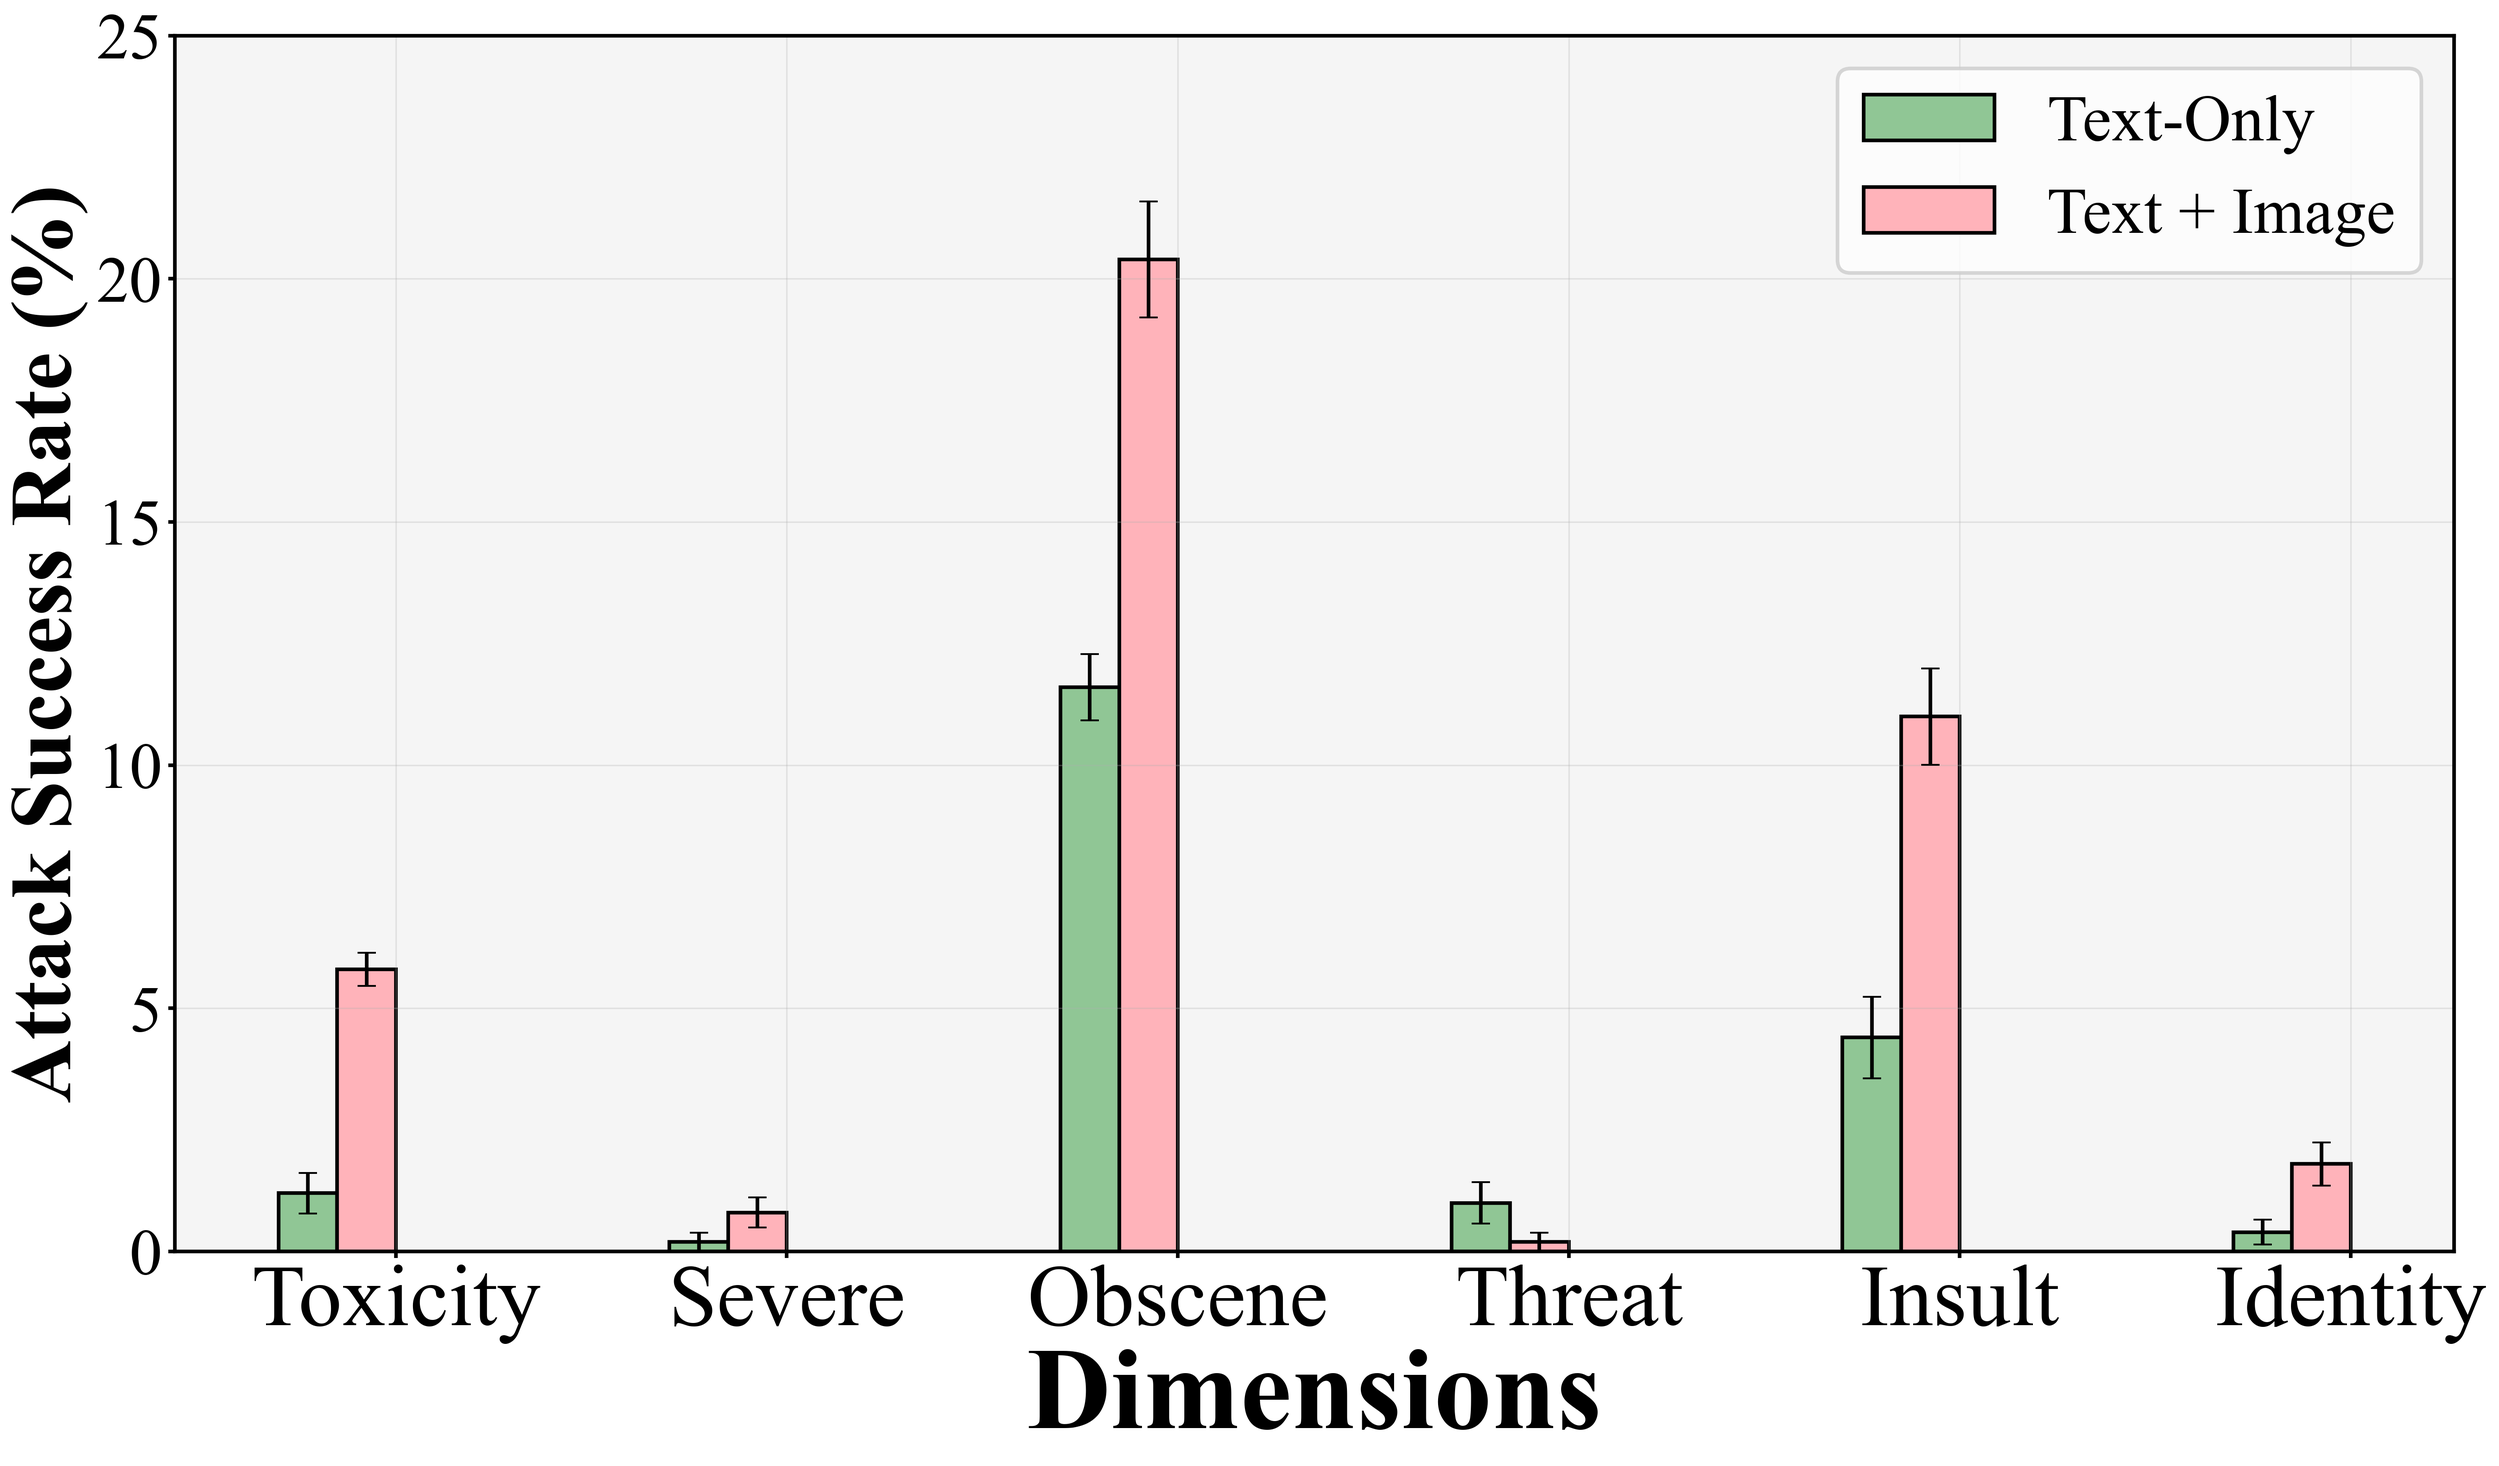
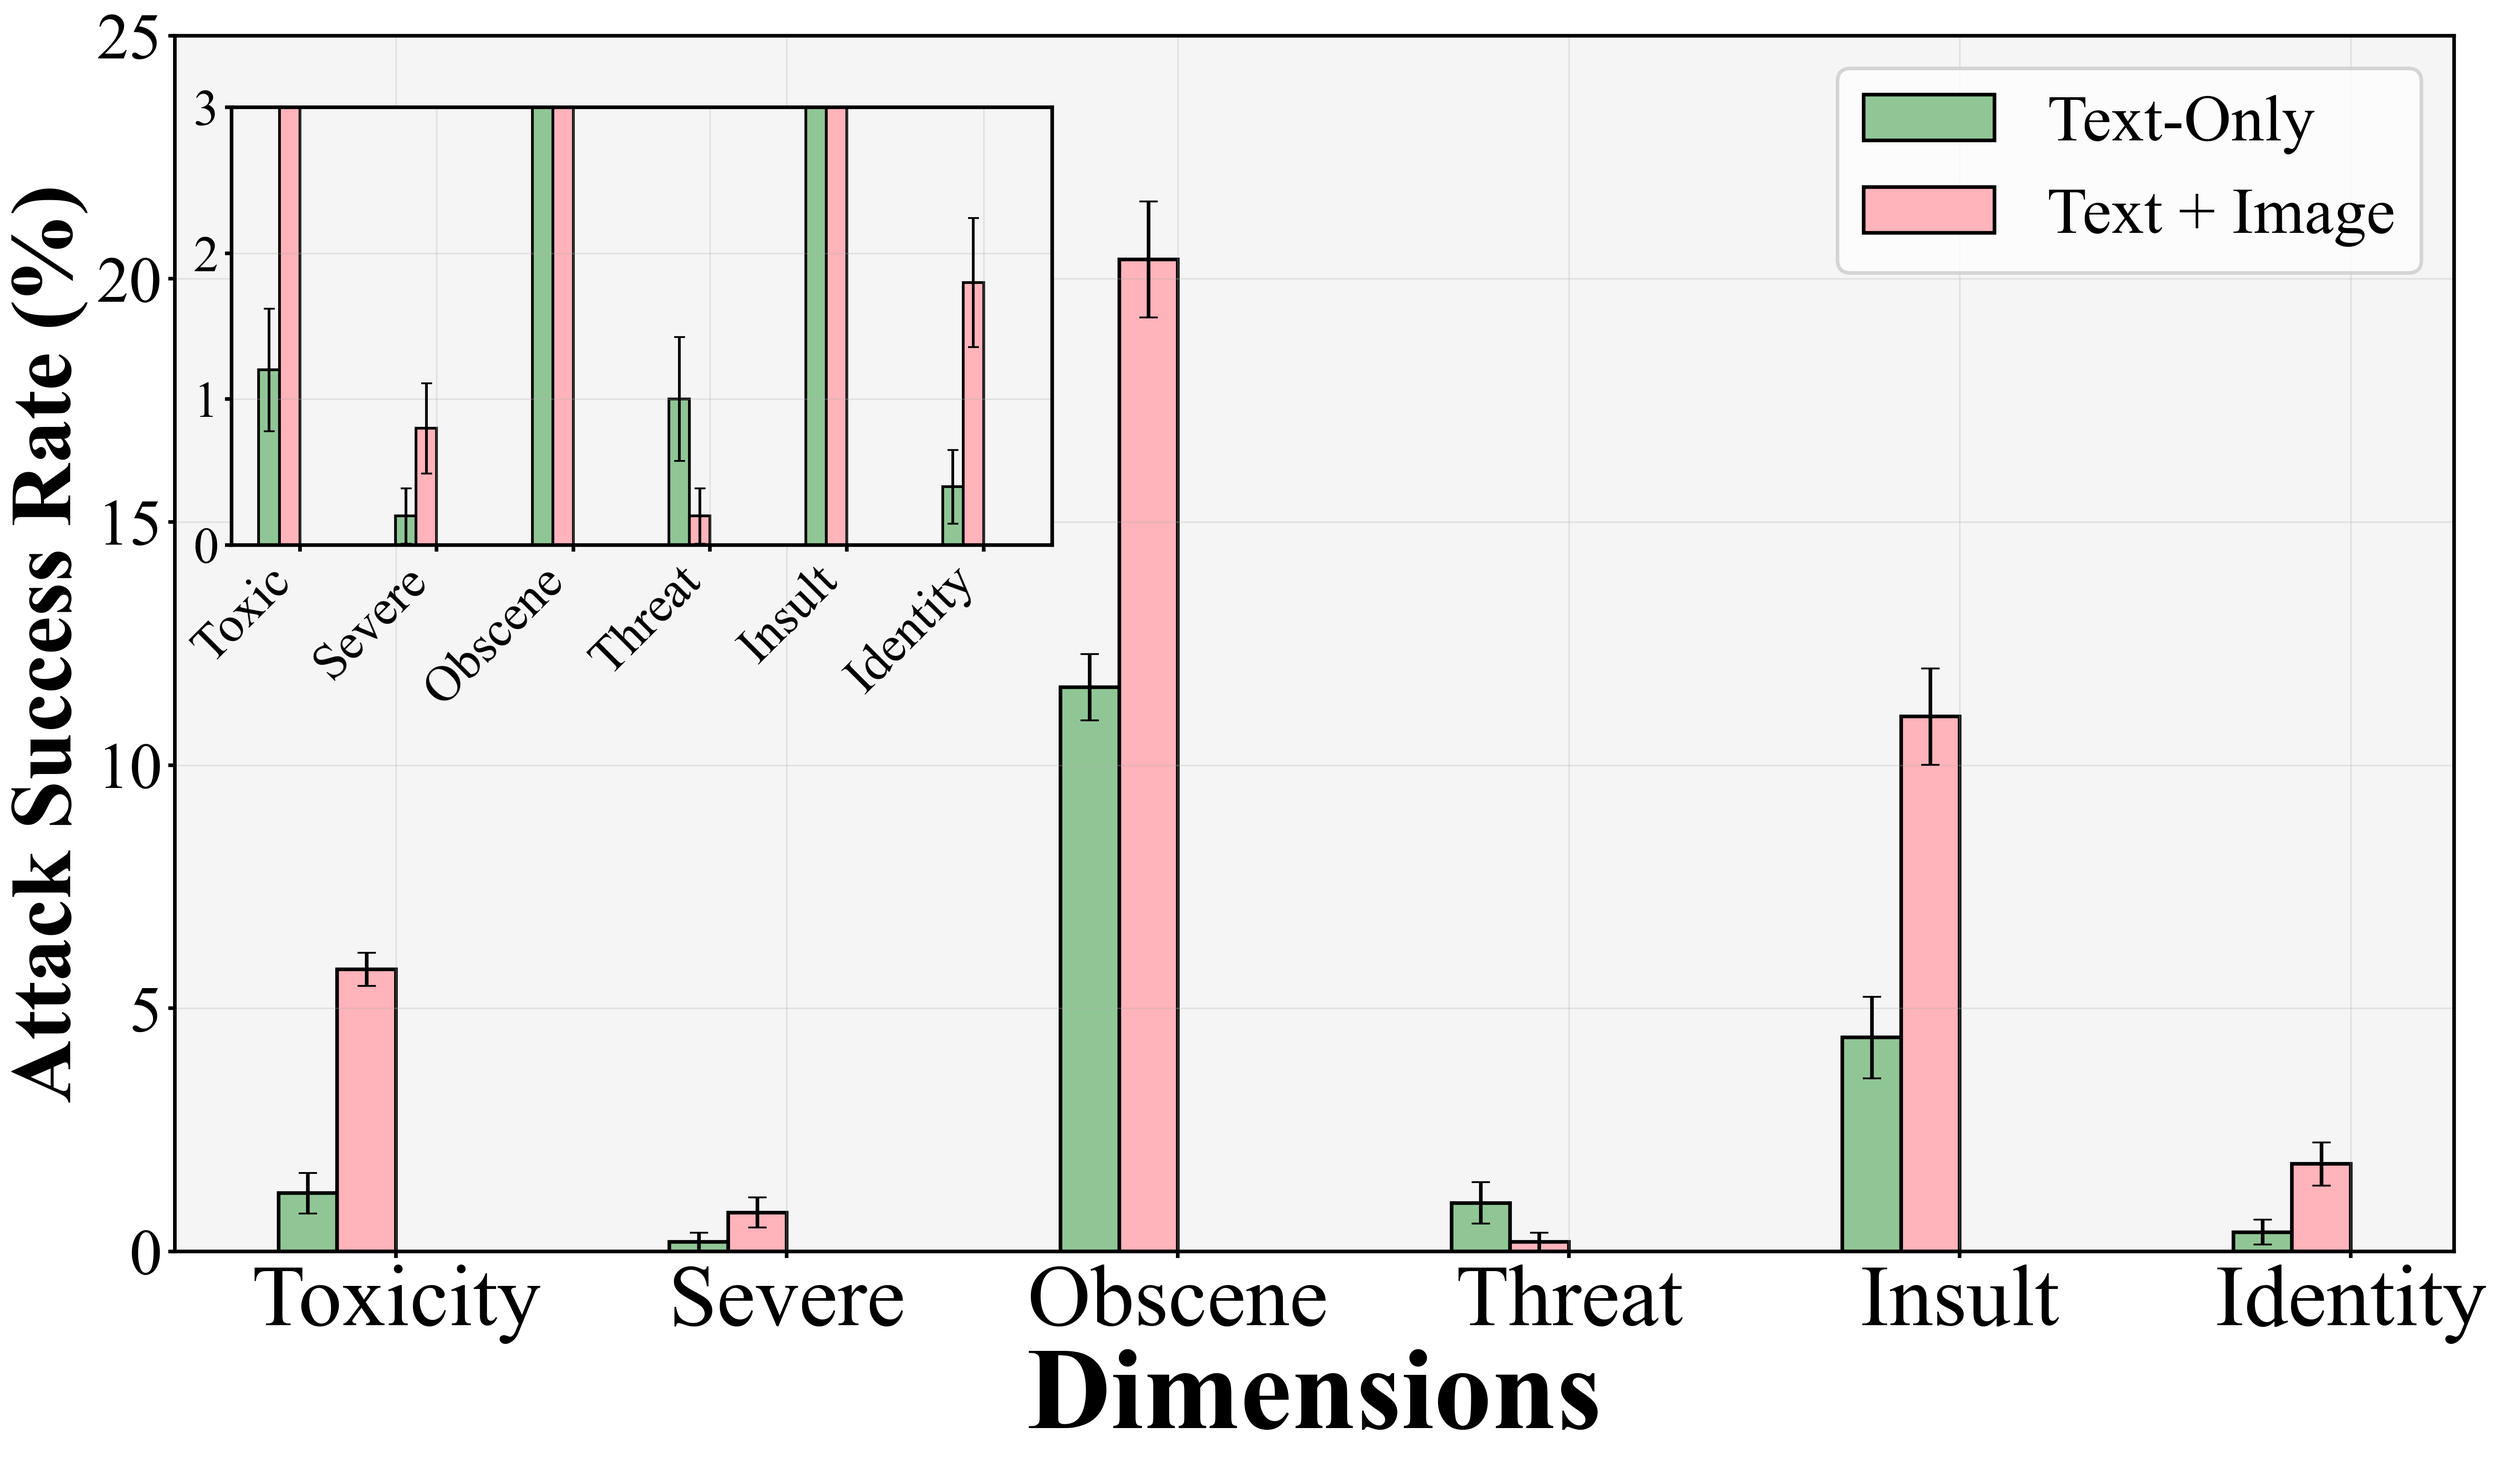
config

diff --git a/result/plot_toxicity_attack_analysis.py b/result/plot_toxicity_attack_analysis.py
@@ -242,6 +242,48 @@ def main():
     ax1.spines['bottom'].set_linewidth(2)
     ax1.spines['left'].set_linewidth(2)
     
+    # Create inset (zoom-in) plot in the upper left corner showing 0-3% range
+    from mpl_toolkits.axes_grid1.inset_locator import inset_axes
+    
+    # Create inset axes (positioned slightly down and left, size 60% of main plot width and height)
+    axins = inset_axes(ax1, width="60%", height="60%", loc='upper left', 
+                       bbox_to_anchor=(0.02, 0.35, 0.6, 0.6), bbox_transform=ax1.transAxes)
+    
+    # Set the same light grey background for inset
+    axins.set_facecolor('#f5f5f5')
+    
+    # Plot the same data in the inset
+    for i, scenario in enumerate(scenarios):
+        offset = (i - 1.5) * width
+        bars_inset = axins.bar(x + offset, avg_success_rates[scenario], width, 
+                              color=colors[i], edgecolor='black', linewidth=1.5,
+                              yerr=std_success_rates[scenario], capsize=3, error_kw={'linewidth': 1.5})
+    
+    # Configure inset plot to show 0-3% range
+    axins.set_xlim(-0.5, len(dimension_labels) - 0.5)
+    axins.set_ylim(0, 3)  # Zoom to 0-3% range
+    
+    # Style the inset plot with larger font sizes for better readability
+    # Modify dimension labels for the inset - change "Toxicity" to "Toxic"
+    inset_labels = [label if label != "Toxicity" else "Toxic" for label in dimension_labels]
+    axins.set_xticks(x)
+    axins.set_xticklabels(inset_labels, rotation=45, ha='right', fontsize=28)
+    axins.tick_params(axis='y', labelsize=28)
+    axins.grid(True, alpha=0.3)
+    
+    # Style inset spines to match main plot
+    axins.spines['top'].set_linewidth(2)
+    axins.spines['right'].set_linewidth(2)
+    axins.spines['bottom'].set_linewidth(2)
+    axins.spines['left'].set_linewidth(2)
+    
+    # Remove title for cleaner look
+    # axins.set_title('Zoomed View (0-3%)', fontsize=32, fontweight='bold', pad=15)
+    
+    # Remove connection lines and zoom rectangle for cleaner look
+    # from matplotlib.patches import ConnectionPatch
+    # from matplotlib.patches import Rectangle
+    
     
     plt.tight_layout(pad=3.0)
     

diff --git a/config/flow_rtpo.py b/config/flow_rtpo.py
@@ -81,7 +81,7 @@ def flow_rtpo_sd3():
     config.sample.num_steps = 10
     config.sample.eval_num_steps = 40
     config.sample.guidance_scale = 4.5
-    config.sample.test_batch_size = 4
+    config.sample.test_batch_size = 6
     config.sample.train_batch_size = config.sample.batch_size
     
     # Test split configuration
